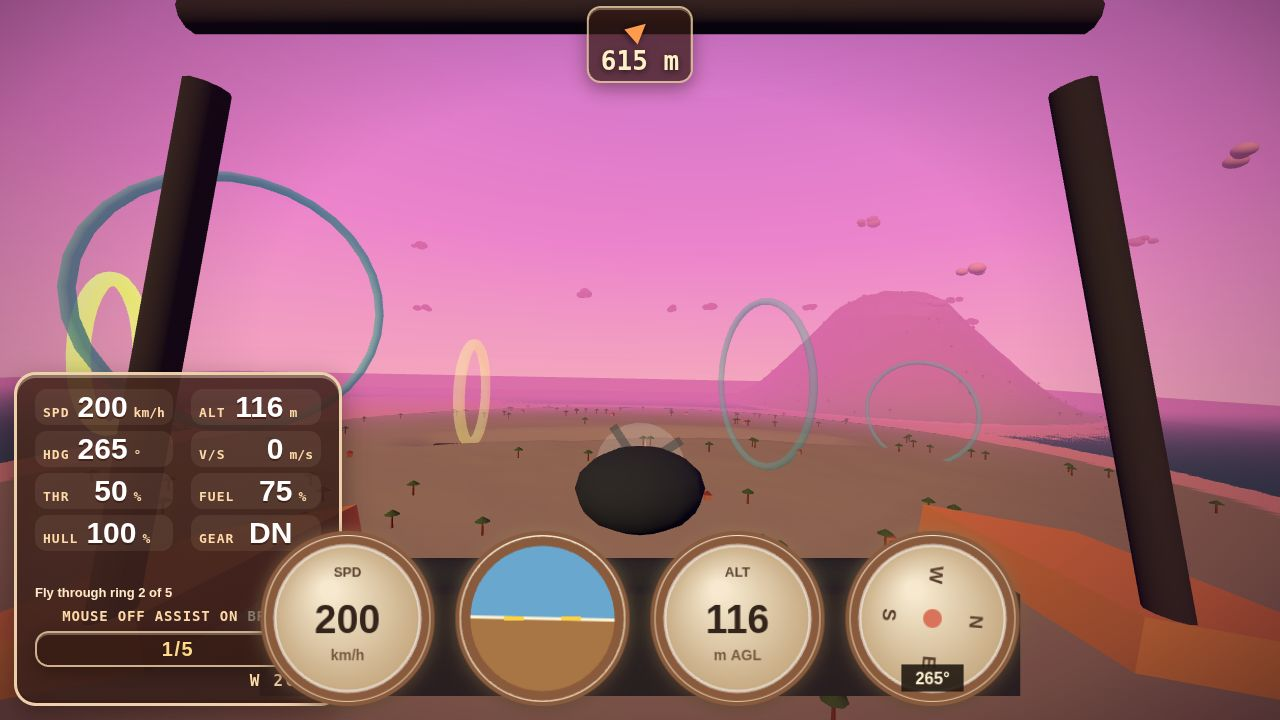
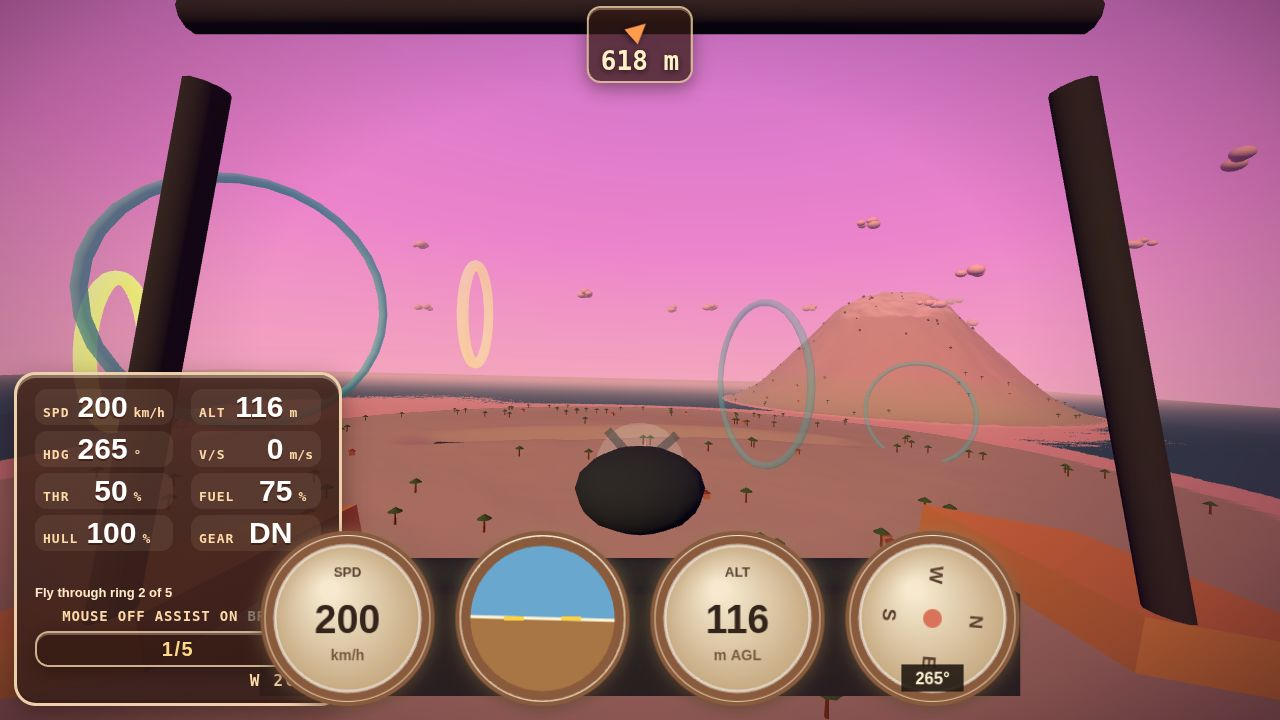
CP8 step 2: softer fog, warmer terrain, 250m cover shot, visible horizon and non-overlapping rings

diff --git a/game/src/main.js b/game/src/main.js
@@ -75,13 +75,14 @@ let elapsed = 0;
 let propAngle = 0;
 let quantizedTime = 0;
 let qSteps = 0;
+let hideNextRing = false;
 let paused = false;
 let cameraMode = shotMode === "cockpit" ? 1 : 0;
 if (isShotScene) {
   setPhase("FLYING");
   if (shotMode === "landing" || shotMode === "touchdown") input.controls.assist = false;
   if (shotMode === "chase-ring") {
-    Object.assign(state, { x: 0, y: 80, z: 120, heading: 0, speed: 58, throttle: 0.55, fuel: 70, onGround: false, pitch: 0.02, roll: 0.04 });
+    Object.assign(state, { x: 0, y: 250, z: 120, heading: 0, speed: 55, throttle: 0.55, fuel: 70, onGround: false, pitch: -0.087, roll: 0.02 });
     missionState.phase = "RINGS";
   } else if (shotMode === "cockpit") {
     cameraMode = 1;
@@ -103,6 +104,10 @@ const camPos = new THREE.Vector3(state.x, state.y + 8, state.z - 16);
 const camLook = new THREE.Vector3(state.x, state.y, state.z);
 const EYE = new THREE.Vector3(0, 0.55, 0.3);
 const COCKPIT_YAW = new THREE.Quaternion().setFromAxisAngle(new THREE.Vector3(0, 1, 0), Math.PI);
+if (shotMode === "chase-ring") {
+  camPos.set(state.x, state.y + 6 - Math.sin(state.pitch) * 16, state.z - 16 * Math.cos(state.pitch));
+  camLook.set(state.x, state.y + 4, state.z);
+}
 
 function resetMission() {
   Object.assign(state, createFlightState({ x: 0, y: groundHeightAt(0, 0) + 1.6, z: 0, heading: 0 }));
@@ -171,10 +176,21 @@ function tick() {
 
   const agl = state.y - 1.6 - groundHeightAt(state.x, state.z);
   world.sky.updateSun(state.x, state.y, state.z);
+  const ringScreen = getMission(missionState.id).rings.map((r) => {
+    const world = new THREE.Vector3(r.x, r.y, r.z);
+    const v = world.clone().project(camera);
+    const focal = window.innerHeight / (2 * Math.tan(camera.fov * Math.PI / 360));
+    return { x: (v.x * 0.5 + 0.5) * window.innerWidth, y: (0.5 - v.y * 0.5) * window.innerHeight, z: v.z, radius: r.r / Math.max(1, camera.position.distanceTo(world)) * focal };
+  });
   advanceMission(missionState, state, agl, landing !== null, landing, prevPos);
   hud.setRingCount(ringCountText(missionState));
   const activeRingIndex = missionState.phase === "RINGS" ? missionState.ringIndex : (missionState.phase === "TAKEOFF" ? 0 : -1);
-  rings.update(activeRingIndex, elapsed);
+  if (activeRingIndex >= 0 && activeRingIndex + 1 < ringScreen.length) {
+    const a = ringScreen[activeRingIndex];
+    const b = ringScreen[activeRingIndex + 1];
+    hideNextRing = Math.hypot(a.x - b.x, a.y - b.y) < (a.radius + b.radius) * 0.95;
+  } else hideNextRing = false;
+  rings.update(activeRingIndex, elapsed, hideNextRing);
   hud.setObjective(objectiveText(missionState));
   if (missionState.lastEvent === "ring") hud.flash("RING " + missionState.ringIndex + "/5");
   if (missionState.lastEvent === "complete") {
@@ -226,7 +242,8 @@ function tick() {
     const floor = groundHeightAt(camPos.x, camPos.z) + 3;
     if (camPos.y < floor) camPos.y = floor;
     camera.position.copy(camPos);
-    const look = new THREE.Vector3(state.x, state.y + 1, state.z);
+    const lookY = shotMode === "chase-ring" ? state.y + 4 : state.y + 1;
+    const look = new THREE.Vector3(state.x, Math.min(lookY, camera.position.y - 2), state.z);
     camLook.lerp(look, 1 - Math.pow(0.0002, dt));
     camera.lookAt(camLook);
   } else {
@@ -244,7 +261,7 @@ function tick() {
   }
   if (paused) hud.el.classList.add("paused"); else hud.el.classList.remove("paused");
 
-  window.__DEBUG__ = { controls: c, state: state, cameraMode: cameraMode, cockpit: cockpitMode, exteriorVisible: air.visible, near: camera.near, fov: camera.fov, hintShown: showHint, cloud: world.sky.cloudMat.color.getHex(), cloudEmissive: world.sky.cloudMat.emissiveIntensity, cloudInfo: world.sky.cloudInfo, hemiGround: world.sky.hemi.groundColor.getHex(), phase: phase, mission: { phase: missionState.phase, ringIndex: missionState.ringIndex, complete: missionState.complete, failed: missionState.failed, stars: missionState.stars }, landing: landingText, clayInfo: world.clayInfo, skyInfo: world.skyInfo, stopMotion: { fps: STOP_MOTION.fps, steps: qSteps, time: quantizedTime, propAngle: propAngle }, ringInfo: rings.info, runwayInfo: world.runwayInfo, ringStates: rings.stateInfo, lampPosts: !!scene.getObjectByName("lamp-posts"), restarts: restarts, keys: Array.from(input.keys), agl: agl, calls: renderer.info.render.calls };
+  window.__DEBUG__ = { controls: c, state: state, cameraMode: cameraMode, cockpit: cockpitMode, exteriorVisible: air.visible, near: camera.near, fov: camera.fov, hintShown: showHint, cloud: world.sky.cloudMat.color.getHex(), cloudEmissive: world.sky.cloudMat.emissiveIntensity, cloudInfo: world.sky.cloudInfo, hemiGround: world.sky.hemi.groundColor.getHex(), phase: phase, mission: { phase: missionState.phase, ringIndex: missionState.ringIndex, complete: missionState.complete, failed: missionState.failed, stars: missionState.stars }, landing: landingText, clayInfo: world.clayInfo, skyInfo: world.skyInfo, stopMotion: { fps: STOP_MOTION.fps, steps: qSteps, time: quantizedTime, propAngle: propAngle }, ringInfo: rings.info, runwayInfo: world.runwayInfo, ringStates: rings.stateInfo, ringScreen: ringScreen, lampPosts: !!scene.getObjectByName("lamp-posts"), restarts: restarts, keys: Array.from(input.keys), agl: agl, calls: renderer.info.render.calls };
 
   renderer.render(scene, camera);
   frames += 1;

diff --git a/game/src/world/sky.js b/game/src/world/sky.js
@@ -4,7 +4,7 @@ import { getMission } from "../missions.js";
 
 export function buildSky(THREE, scene, doc) {
   scene.background = new THREE.Color(0xd63a9a);
-  scene.fog = new THREE.Fog(new THREE.Color(0xd86aa8), 400, 1500);
+  scene.fog = new THREE.Fog(new THREE.Color(0xd99a9a), 700, 2600);
 
   const domeCanvas = doc.createElement("canvas");
   domeCanvas.width = 4;
@@ -86,7 +86,7 @@ export function buildSky(THREE, scene, doc) {
   scene.add(clouds);
   return {
     sun, clouds, cloudMat, hemi, sunDisc,
-    info: { fog: scene.fog.color.getHex(), hemiSky: hemi.color.getHex(), hemiGround: hemi.groundColor.getHex(), sun: sun.color.getHex(), disc: sunDisc.material.color.getHex(), shadowSize: sun.shadow.mapSize.x },
+    info: { fog: scene.fog.color.getHex(), fogNear: scene.fog.near, fogFar: scene.fog.far, hemiSky: hemi.color.getHex(), hemiGround: hemi.groundColor.getHex(), sun: sun.color.getHex(), disc: sunDisc.material.color.getHex(), shadowSize: sun.shadow.mapSize.x },
     updateClouds(t) {
       clouds.rotation.y = t * 0.0006;
     },
@@ -94,6 +94,8 @@ export function buildSky(THREE, scene, doc) {
       sun.position.set(x + 300, y + 180, z + 200);
       sun.target.position.set(x, y, z);
       sun.target.updateMatrixWorld();
+      sunDisc.position.set(x + 1200, y + 130, z + 1450);
+      sunDisc.lookAt(x, y + 130, z);
     },
     cloudInfo: { count: clusters * perCluster, maxScale, minPathDistance } };
 }

diff --git a/game/src/world/rings.js b/game/src/world/rings.js
@@ -47,7 +47,7 @@ export function buildRings(THREE, missionId, mat) {
     reset() {
       for (let i = 0; i < passAt.length; i += 1) passAt[i] = null;
     },
-    update(index, time) {
+    update(index, time, hideNext) {
       for (let i = 0; i < entries.length; i += 1) {
         const e = entries[i];
         const passed = index === -1 || i < index;
@@ -72,8 +72,12 @@ export function buildRings(THREE, missionId, mat) {
           stateInfo[i].color = e.thick.material.color.getHex();
         } else {
           e.thick.visible = false;
-          e.thin.visible = true;
+          e.thin.visible = i !== index + 1 || !hideNext;
           e.thin.material.opacity = i === index + 1 ? 0.75 : 0.45;
+          if (!e.thin.visible) {
+            stateInfo[i].visible = false;
+            continue;
+          }
           stateInfo[i].visible = true;
           stateInfo[i].opacity = e.thin.material.opacity;
           stateInfo[i].tube = THIN_TUBE;

diff --git a/game/src/world/terrain.js b/game/src/world/terrain.js
@@ -65,9 +65,9 @@ export function groundHeightAt(x, z) {
 
 // Colour by elevation and slope, as clay-looking vertex colours.
 function colorFor(h, slope, out) {
-  const sand = [0.86, 0.76, 0.52];
-  const grass = [0.36, 0.55, 0.28];
-  const rock = [0.52, 0.47, 0.42];
+  const sand = [0.9, 0.8, 0.6];
+  const grass = [0.52, 0.66, 0.4];
+  const rock = [0.64, 0.56, 0.52];
   const snow = [0.93, 0.93, 0.95];
   let c;
   if (h < 2.5) c = sand;

diff --git a/game/src/missions.js b/game/src/missions.js
@@ -6,7 +6,7 @@ export const MISSIONS = [
     name: "First Flight",
     fuelScale: 0.45,
     rings: [
-      { x: 0, y: 75, z: 350, r: 60 },
+      { x: 0, y: 170, z: 350, r: 60 },
       { x: 140, y: 115, z: 620, r: 65 },
       { x: 320, y: 145, z: 380, r: 65 },
       { x: 250, y: 105, z: 80, r: 60 },
